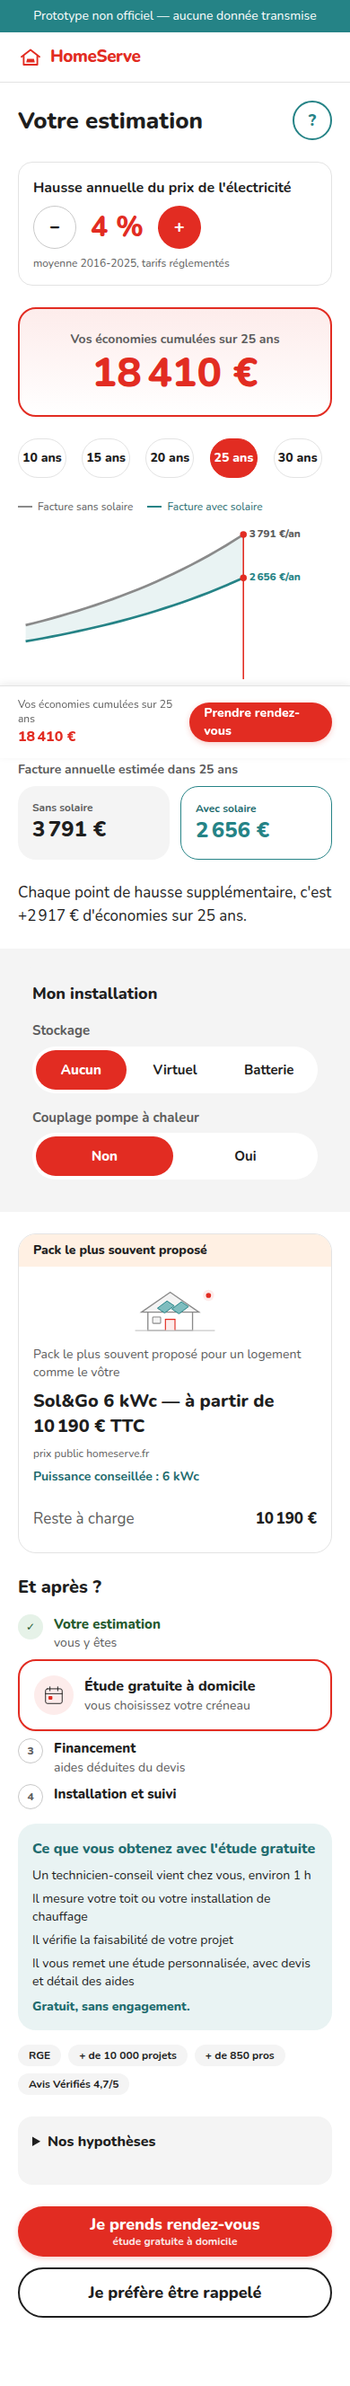
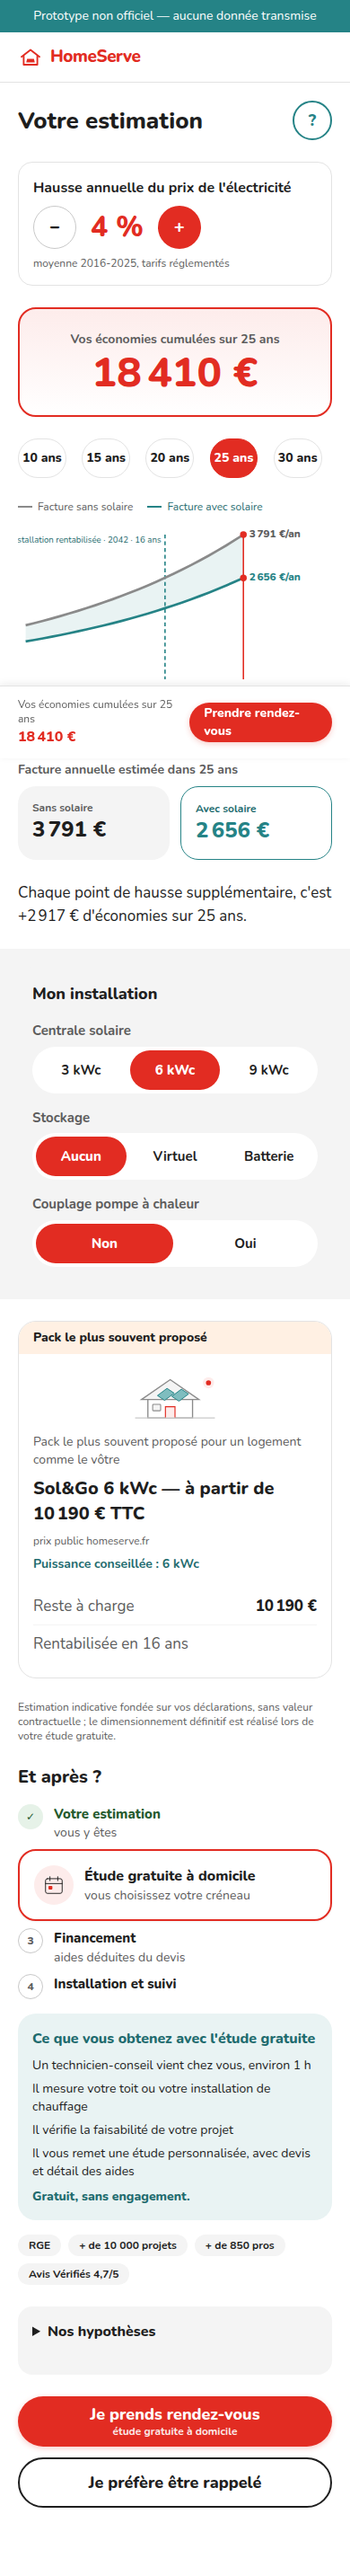
feat(resultat): D41 révisée — rentabilité et puissance dans la vue par défaut
Le drapeau `?demo=1` disparaît : plus d'état `demo` dans le store, plus de
propagation dans les liens, plus de bascule dans le panneau debug. La ligne
« Puissance 3 · 6 · 9 kWc », le trait en tirets canard, la ligne
« Rentabilisée en N ans » de la carte pack et la mention d'estimation
indicative sont maintenant toujours à l'écran.

Changer la puissance change le pack, donc le prix, la production, le surplus
et l'année de bascule : un test le vérifie sur 6 → 9 kWc. Le libellé du trait
bascule à gauche quand il déborderait sur les annotations de fin de série.

README : méthode de calcul de la rentabilité et ses cinq prérequis (accord du
commerce, grille validée, dégradation, maintenance, tarif de rachat).

Claude-Session: https://claude.ai/code/session_01NwWthX9S8Kxcjqkt96twac

diff --git a/test/resultat.test.tsx b/test/resultat.test.tsx
@@ -10,7 +10,6 @@ import { evenements, viderBus } from "@/lib/analytics";
 import { contenu } from "@/lib/content";
 import {
   __reinitialiserPourTests,
-  setDemo,
   setReponse,
   setVariant,
 } from "@/lib/store";
@@ -266,13 +265,15 @@ describe("puissance de la centrale (D45)", () => {
     repondreSimulateur();
   });
 
-  it("n'expose pas le choix de kWc dans la vue par défaut", () => {
+  it("expose le choix de puissance dans la vue par défaut (D41 révisée)", () => {
     render(<Resultat />);
 
     const options = contenu.resultat.configurateur.solaire.options;
-    expect(screen.queryByText(contenu.resultat.configurateur.solaire.libelle)).toBeNull();
+    expect(
+      screen.getByText(contenu.resultat.configurateur.solaire.libelle),
+    ).toBeDefined();
     for (const libelle of Object.values(options)) {
-      expect(screen.queryByRole("button", { name: libelle })).toBeNull();
+      expect(screen.getByRole("button", { name: libelle })).toBeDefined();
     }
   });
 
@@ -283,19 +284,6 @@ describe("puissance de la centrale (D45)", () => {
     expect(screen.getByText(/Puissance conseillée : 6 kWc/)).toBeDefined();
   });
 
-  it("rétablit le choix de kWc avec ?demo=1, à côté de la rentabilité", () => {
-    setDemo(true);
-    render(<Resultat />);
-
-    expect(
-      screen.getByText(contenu.resultat.configurateur.solaire.libelle),
-    ).toBeDefined();
-    expect(
-      screen.getByRole("button", {
-        name: contenu.resultat.configurateur.solaire.options["9"],
-      }),
-    ).toBeDefined();
-  });
 });
 
 describe("rentabilité (D41)", () => {
@@ -303,21 +291,40 @@ describe("rentabilité (D41)", () => {
     repondreSimulateur();
   });
 
-  it("ne rend pas le trait de rentabilité sans le drapeau", () => {
-    render(<Resultat />);
-
-    expect(screen.queryByTestId("trait-rentabilite")).toBeNull();
-    expect(
-      screen.queryByText(contenu.resultat.rentabilite.mention),
-    ).toBeNull();
-  });
-
-  it("affiche le trait, la ligne du pack et la mention légale avec ?demo=1", () => {
-    setDemo(true);
+  it("rend le trait, la ligne du pack et la mention dans la vue par défaut", () => {
     render(<Resultat />);
 
     expect(screen.getByTestId("trait-rentabilite")).toBeDefined();
     expect(screen.getByText(contenu.resultat.rentabilite.mention)).toBeDefined();
+    // « Rentabilisée en N ans » dans la carte pack.
+    expect(
+      screen.getByText(
+        (texte) => /^Rentabilisée en \d+ ans$/.test(texte),
+      ),
+    ).toBeDefined();
+  });
+
+  it("changer la puissance change le prix du pack et l'année de bascule", () => {
+    render(<Resultat />);
+
+    const anneeBascule = () =>
+      /Rentabilisée en (\d+) ans/.exec(document.body.textContent ?? "")?.[1];
+    const prixPack = () =>
+      /à partir de ([\d\u00a0\u202f ]+) €/.exec(document.body.textContent ?? "")?.[1];
+
+    const prix6 = prixPack();
+    const annee6 = anneeBascule();
+    expect(prix6).toBeDefined();
+    expect(annee6).toBeDefined();
+
+    fireEvent.click(
+      screen.getByRole("button", {
+        name: contenu.resultat.configurateur.solaire.options["9"],
+      }),
+    );
+
+    expect(prixPack()).not.toBe(prix6);
+    expect(anneeBascule()).not.toBe(annee6);
   });
 });
 
@@ -361,12 +368,7 @@ describe("panneau « Comprendre mes résultats » (D37)", () => {
     );
 
     const blocs = contenu.resultat.comprendre_panneau.blocs;
-    // L'onglet kWc suit la ligne du configurateur : absent hors ?demo=1 (D45).
-    for (const [cle, bloc] of Object.entries(blocs)) {
-      if (cle === "kwc") {
-        expect(screen.queryByRole("button", { name: bloc.titre })).toBeNull();
-        continue;
-      }
+    for (const bloc of Object.values(blocs)) {
       expect(screen.getByRole("button", { name: bloc.titre })).toBeDefined();
     }
 
@@ -380,7 +382,6 @@ describe("panneau « Comprendre mes résultats » (D37)", () => {
 
   it("rend pour chaque onglet un texte non vide venant de fr-fr.json", () => {
     repondreSimulateur();
-    setDemo(true); // avec le drapeau, les huit onglets sont présents
     render(<Resultat />);
 
     fireEvent.click(

diff --git a/components/Resultat.tsx b/components/Resultat.tsx
@@ -111,10 +111,12 @@ export function Resultat() {
 
   /**
    * Rentabilité (D41) : première année où le cumul des économies, surplus
-   * inclus, atteint le prix public du pack. Uniquement sous `?demo=1`.
+   * inclus, atteint le prix public du pack retenu. Dans la vue par défaut :
+   * changer de puissance change le prix, la production, le surplus, donc
+   * l'année de bascule et le trait de la courbe.
    */
   const rentabilite = useMemo(() => {
-    if (!etat.demo || !resultat) return null;
+    if (!resultat) return null;
 
     const longue = projeter({
       factureAnnuelle: resultat.factureAnnuelle,
@@ -130,7 +132,7 @@ export function Resultat() {
       if (cumul >= resultat.prixPack) return annee;
     }
     return null;
-  }, [etat.demo, resultat, taux]);
+  }, [resultat, taux]);
 
   const traitRentabilite: Rentabilite =
     rentabilite !== null && rentabilite <= horizon
@@ -219,16 +221,12 @@ export function Resultat() {
         </>
       ),
     },
-    ...(etat.demo
-      ? [
-          {
-            cle: "kwc",
-            ...t.comprendre_panneau.blocs.kwc,
-            vignette: <Configurateur reglages={reglages} bloc="kwc" apercu />,
-            impacts: impactsOption("kwc"),
-          },
-        ]
-      : []),
+    {
+      cle: "kwc",
+      ...t.comprendre_panneau.blocs.kwc,
+      vignette: <Configurateur reglages={reglages} bloc="kwc" apercu />,
+      impacts: impactsOption("kwc"),
+    },
     {
       cle: "stockage",
       ...t.comprendre_panneau.blocs.stockage,
@@ -372,7 +370,6 @@ export function Resultat() {
           <div className={SECTION_ALTERNEE}>
             <Configurateur
               reglages={reglages}
-              avecPuissance={etat.demo}
               avecCouplage={!pacDeja}
               onChanger={(r) => {
                 setReglages(r);
@@ -393,9 +390,7 @@ export function Resultat() {
             afficherAides={etat.projet !== "solaire"}
           />
 
-          {etat.demo ? (
-            <p className="text-xs text-neutre-500">{t.rentabilite.mention}</p>
-          ) : null}
+          <p className="text-xs text-neutre-500">{t.rentabilite.mention}</p>
         </>
       )}
 

diff --git a/components/DebugPanel.tsx b/components/DebugPanel.tsx
@@ -4,7 +4,7 @@ import { useState } from "react";
 
 import { useEvenements, viderBus, type EvenementSuivi } from "@/lib/analytics";
 import { contenu } from "@/lib/content";
-import { setDemo, useProjet } from "@/lib/store";
+import { useProjet } from "@/lib/store";
 
 /**
  * Panneau de débogage, activé par `?debug=1`.
@@ -12,13 +12,12 @@ import { setDemo, useProjet } from "@/lib/store";
  * Il montre exactement ce qui serait poussé vers la mesure d'audience —
  * nom d'événement, variante, horodatage, charge utile — sans qu'aucune
  * requête ne parte. C'est l'outil qui permet de démontrer l'instrumentation
- * pendant la présentation, et de basculer le drapeau de rentabilité (D41)
- * sans changer d'URL.
+ * pendant la présentation.
  */
 export function DebugPanel() {
   const [ouvert, setOuvert] = useState(false);
   const evenements = useEvenements();
-  const { variant, demo } = useProjet();
+  const { variant } = useProjet();
   const t = contenu.debug;
 
   return (
@@ -37,16 +36,6 @@ export function DebugPanel() {
         <span className="text-neutre-500">
           {t.variant} : <strong className="text-neutre-700">{variant}</strong>
         </span>
-
-        <label className="flex min-h-11 items-center gap-2">
-          <input
-            type="checkbox"
-            checked={demo}
-            onChange={(e) => setDemo(e.target.checked)}
-            className="size-5 accent-corail-600"
-          />
-          {t.rentabilite}
-        </label>
 
         {evenements.length > 0 ? (
           <button

diff --git a/components/resultat/blocs.tsx b/components/resultat/blocs.tsx
@@ -163,19 +163,12 @@ export function Configurateur({
   onChanger,
   apercu = false,
   bloc,
-  avecPuissance = false,
   avecCouplage = true,
 }: PropsApercu & {
   reglages: ReglagesInstallation;
   onChanger?: (r: ReglagesInstallation) => void;
   /** Restreint l'aperçu à une seule ligne du configurateur (panneau D37). */
   bloc?: "kwc" | "stockage" | "couplage";
-  /**
-   * D45 : le choix de puissance ne figure pas dans la vue par défaut — le
-   * dimensionnement relève de l'étude, pas d'un curseur. Il réapparaît sous
-   * `?demo=1`, à côté de la rentabilité.
-   */
-  avecPuissance?: boolean;
   /**
    * Masque la ligne « Couplage pompe à chaleur » quand l'utilisateur en a
    * déjà déclaré une : le couplage est acquis, pas une option à choisir.
@@ -226,7 +219,6 @@ export function Configurateur({
       choisir: (v: string) => onChanger?.({ ...reglages, couplage: v === "oui" }),
     },
   ]
-    .filter((ligne) => ligne.cle !== "kwc" || avecPuissance || bloc === "kwc")
     .filter((ligne) => ligne.cle !== "couplage" || avecCouplage || bloc === "couplage")
     .filter((ligne) => !bloc || ligne.cle === bloc);
 

diff --git a/lib/store.ts b/lib/store.ts
@@ -58,8 +58,6 @@ export type ProjetState = {
   version: 1;
   variant: Variant;
   debug: boolean;
-  /** Drapeau de démonstration (D41) : lu depuis `?demo=1`. */
-  demo: boolean;
   projet?: Projet;
   reponses: Partial<Record<CleReponse, ValeurReponse>>;
   resultats?: Resultats;
@@ -71,7 +69,6 @@ export const ETAT_VIDE: ProjetState = Object.freeze({
   version: 1,
   variant: "defaut",
   debug: false,
-  demo: false,
   reponses: {},
   events: [],
 }) as ProjetState;
@@ -191,12 +188,6 @@ export function setVariant(variant: Variant) {
 export function setDebug(debug: boolean) {
   if (etat.debug === debug) return;
   appliquer({ ...etat, debug });
-}
-
-/** Drapeau `?demo=1` : ouvre les affichages de rentabilité (D41). */
-export function setDemo(demo: boolean) {
-  if (etat.demo === demo) return;
-  appliquer({ ...etat, demo });
 }
 
 /** Mémorise l'issue du parcours RDV (sortie, agence, créneau, règles). */

diff --git a/components/resultat/CourbeCiseaux.tsx b/components/resultat/CourbeCiseaux.tsx
@@ -176,8 +176,19 @@ export function CourbeCiseaux({
               strokeDasharray="4 3"
               data-testid="trait-rentabilite"
             />
+            {/* Le libellé passe à gauche du trait quand il déborderait sur
+                les annotations de fin de série. */}
             <text
-              x={geo.x(rentabilite.annee) + 4}
+              x={
+                geo.x(rentabilite.annee) + 4 > largeur - MARGE.droite - 96
+                  ? geo.x(rentabilite.annee) - 4
+                  : geo.x(rentabilite.annee) + 4
+              }
+              textAnchor={
+                geo.x(rentabilite.annee) + 4 > largeur - MARGE.droite - 96
+                  ? "end"
+                  : "start"
+              }
               y={MARGE.haut + 8}
               fontSize={9}
               fill="var(--color-canard-700)"

diff --git a/components/EnteteApp.tsx b/components/EnteteApp.tsx
@@ -4,7 +4,7 @@ import { usePathname, useSearchParams } from "next/navigation";
 import { useEffect } from "react";
 
 import { contenu } from "@/lib/content";
-import { setDebug, setDemo, setVariant, useProjet } from "@/lib/store";
+import { setDebug, setVariant, useProjet } from "@/lib/store";
 
 import { PictoMaison } from "./ui/pictos";
 
@@ -29,13 +29,11 @@ export function EnteteApp() {
 
   const variantUrl = parametres.get("variant") === "mur" ? "mur" : "defaut";
   const debugUrl = parametres.get("debug") === "1";
-  const demoUrl = parametres.get("demo") === "1";
 
   useEffect(() => {
     setVariant(variantUrl);
     setDebug(debugUrl);
-    setDemo(demoUrl);
-  }, [variantUrl, debugUrl, demoUrl]);
+  }, [variantUrl, debugUrl]);
 
   return (
     <>

diff --git a/test/home-page.test.tsx b/test/home-page.test.tsx
@@ -55,13 +55,13 @@ describe("Accueil", () => {
     expect(lireEtat().reponses.projet).toBeUndefined();
   });
 
-  it("propage la variante et le drapeau démo dans les liens", () => {
-    rendre("variant=mur&demo=1");
+  it("propage la variante et le drapeau debug dans les liens", () => {
+    rendre("variant=mur&debug=1");
 
     const lien = screen.getByRole("link", {
       name: new RegExp(contenu.accueil.porte_simulateur.titre),
     });
     expect(lien.getAttribute("href")).toContain("variant=mur");
-    expect(lien.getAttribute("href")).toContain("demo=1");
+    expect(lien.getAttribute("href")).toContain("debug=1");
   });
 });

diff --git a/lib/navigation.ts b/lib/navigation.ts
@@ -1,11 +1,11 @@
 "use client";
 
 /**
- * Les drapeaux de démonstration (`variant`, `debug`, `demo`) doivent survivre
+ * Les drapeaux de démonstration (`variant`, `debug`) doivent survivre
  * à chaque navigation : sans cela, une démo lancée en `?variant=mur` perdrait
  * sa variante au premier clic.
  */
-const DRAPEAUX = ["variant", "debug", "demo"] as const;
+const DRAPEAUX = ["variant", "debug"] as const;
 
 export function avecDrapeaux(
   chemin: string,

diff --git a/README.md b/README.md
@@ -122,6 +122,22 @@ bloc « Nos hypothèses » du résultat les affiche à l'écran.
 | `data/pac-baremes.json` | SCOP, prix des énergies, rendements, prix PAC, MaPrimeRénov', CEE | SCOP réel 2,9 (ADEME) · MPR par profil · CEE par zone climatique |
 | `data/arbre-rdv.json` | arbre de qualification complet, sorties et URLs réelles | 28 nœuds, 12 sorties |
 
+**Rentabilité (D41).** L'année de bascule est la première année où le cumul
+des économies inflatées **plus le surplus revendu** atteint le prix public TTC
+du pack retenu. La recherche va jusqu'à 40 ans ; au-delà de l'horizon affiché,
+le trait n'est pas tracé. Changer la puissance (3 · 6 · 9 kWc) change le pack,
+donc le prix, la production, le surplus et l'année de bascule. Ce que le calcul
+suppose, et qu'il faut valider avant d'en faire un argument commercial :
+
+- **accord du commerce** sur le fait d'afficher une année de rentabilité ;
+- **grille de prix validée** — les prix sont les « à partir de » publics du
+  site, pas des devis ;
+- **dégradation des modules** non prise en compte (≈ 0,5 %/an de production
+  perdue) : elle recule l'année de bascule ;
+- **maintenance et remplacement d'onduleur** non comptés (un onduleur se
+  remplace vers 10–15 ans) : ils la reculent aussi ;
+- **tarif de rachat du surplus** supposé constant sur tout l'horizon.
+
 **Non-régression obligatoire.** Le moteur solaire reproduit l'exemple EDF
 vérifié — département 69, 100–135 m², 101–135 €/mois, radiateurs électriques,
 véhicule électrique, chauffe-eau thermodynamique, occupation 5 j+ :
